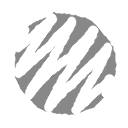
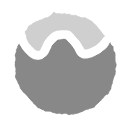
small refactor

diff --git a/Roguecraft.Engine/Core/Level.cs b/Roguecraft.Engine/Core/Level.cs
@@ -1,7 +1,6 @@
 using Microsoft.Xna.Framework;
 using Microsoft.Xna.Framework.Content;
 using Microsoft.Xna.Framework.Graphics;
-using Roguecraft.Engine.Actors;
 using Roguecraft.Engine.Cameras;
 using Roguecraft.Engine.Content;
 using Roguecraft.Engine.Factories;
@@ -24,12 +23,12 @@ namespace Roguecraft.Engine.Core
         private readonly ContentRepository _contentRepository;
         private readonly DoorFactory _doorFactory;
         private readonly DungeonService _dungeonService;
-        private readonly CreatureFactory<Enemy> _enemyFactory;
+        private readonly EnemyFactory _enemyFactory;
         private readonly FrameCounter _frameCounter;
         private readonly GameLoop _gameLoop;
         private readonly GraphicsDeviceManager _graphics;
         private readonly GraphicsDevice _graphicsDevice;
-        private readonly CreatureFactory<Hero> _heroFactory;
+        private readonly HeroFactory _heroFactory;
         private readonly HudRenderer _hudRenderer;
         private readonly ParticleRenderer _particleRenderer;
         private readonly ShapeRenderer _shapeRenderer;
@@ -52,8 +51,8 @@ namespace Roguecraft.Engine.Core
 
             _collisionService = new CollisionService(_actorPool);
 
-            _heroFactory = new CreatureFactory<Hero>(_configuration, _actorPool, _collisionService, _contentRepository);
-            _enemyFactory = new CreatureFactory<Enemy>(_configuration, _actorPool, _collisionService, _contentRepository);
+            _heroFactory = new HeroFactory(_configuration, _actorPool, _collisionService, _contentRepository);
+            _enemyFactory = new EnemyFactory(_configuration, _actorPool, _collisionService, _contentRepository);
             _wallFactory = new WallFactory(_configuration, _actorPool, _collisionService, _contentRepository);
             _doorFactory = new DoorFactory(_configuration, _actorPool, _collisionService, _contentRepository);
 
@@ -104,9 +103,9 @@ namespace Roguecraft.Engine.Core
         public void Update(float deltaTime)
         {
             _gameLoop.Update(deltaTime);
-
-            _soundService.Update();
+            _soundService.Play();
             _particleRenderer.Update(deltaTime);
+            _gameLoop.UpdateTimers(deltaTime);
         }
     }
 }

diff --git a/Roguecraft.Engine/Factories/CreatureFactory.cs b/Roguecraft.Engine/Factories/CreatureFactory.cs
@@ -5,12 +5,11 @@ using Roguecraft.Engine.Actors;
 using Roguecraft.Engine.Components;
 using Roguecraft.Engine.Content;
 using Roguecraft.Engine.Core;
-using Roguecraft.Engine.Helpers;
 using Roguecraft.Engine.Simulation;
 
 namespace Roguecraft.Engine.Factories;
 
-public class CreatureFactory<TActor> : ActorFactoryBase<TActor> where TActor : Creature, new()
+public abstract class CreatureFactory<TActor> : ActorFactoryBase<TActor> where TActor : Creature, new()
 {
     public CreatureFactory(Configuration configuration, ActorPool actorPool, CollisionService collisionService, ContentRepository contentRepository) :
                       base(configuration, actorPool, collisionService, contentRepository)
@@ -21,18 +20,10 @@ public class CreatureFactory<TActor> : ActorFactoryBase<TActor> where TActor : C
     {
         var creature = new TActor
         {
-            Texture = ContentRepository.Creature,
-            Name = name ?? "Creature",
             Position = position,
         };
-        creature.Color = Configuration.GetCreatureColor(creature);
-        var stats = new Stats
-        {
-            MaxHealth = 2,
-            Speed = Configuration.BaseCreatureSpeed,
-            DefaultAttack = new BasicAttackAction(creature)
-        };
-        creature.Stats = stats;
+
+        OnCreate(creature);
         creature.Health = creature.Stats.MaxHealth;
 
         creature.Collision = new Collision
@@ -59,4 +50,6 @@ public class CreatureFactory<TActor> : ActorFactoryBase<TActor> where TActor : C
         creature.ToggleDoorAction = new ToggleDoorAction(creature);
         return creature;
     }
+
+    protected abstract void OnCreate(TActor creature);
 }

diff --git a/Roguecraft.Engine/Sound/SoundService.cs b/Roguecraft.Engine/Sound/SoundService.cs
@@ -29,29 +29,42 @@ public class SoundService
         sound.PlayRandom(volume, pan);
     }
 
-    public void Update()
+    public void Play()
     {
         foreach (var actor in _actorPool.Actors)
         {
-            if (actor is Creature creature)
-            {
-                if (creature.HurtTimer.JustTriggered)
-                {
-                    Play(_contentRepository.HitSound, actor.Position);
-                }
-            }
+            PlayCreature(actor);
+            PlayDoor(actor);
+        }
+    }
 
-            if (actor is Door door)
-            {
-                if (door.JustOpened)
-                {
-                    Play(_contentRepository.DoorOpenSound, actor.Position);
-                }
-                if (door.JustClosed)
-                {
-                    Play(_contentRepository.DoorCloseSound, actor.Position);
-                }
-            }
+    private void PlayCreature(Actor actor)
+    {
+        if (actor is not Creature creature)
+        {
+            return;
+        }
+
+        if (!creature.HurtTimer.JustTriggered)
+        {
+            return;
+        }
+        Play(_contentRepository.HitSound, actor.Position);
+    }
+
+    private void PlayDoor(Actor actor)
+    {
+        if (actor is not Door door)
+        {
+            return;
+        }
+        if (door.JustOpened)
+        {
+            Play(_contentRepository.DoorOpenSound, actor.Position);
+        }
+        if (door.JustClosed)
+        {
+            Play(_contentRepository.DoorCloseSound, actor.Position);
         }
     }
 }

diff --git a/Roguecraft.Engine/Factories/ActorFactoryBase.cs b/Roguecraft.Engine/Factories/ActorFactoryBase.cs
@@ -8,16 +8,15 @@ namespace Roguecraft.Engine.Factories;
 
 public abstract class ActorFactoryBase<TActor> : IActorFactory where TActor : Actor
 {
-    private readonly ActorPool _actorPool;
-
     public ActorFactoryBase(Configuration configuration, ActorPool actorPool, CollisionService collisionService, ContentRepository contentRepository)
     {
-        _actorPool = actorPool;
+        ActorPool = actorPool;
         CollisionService = collisionService;
         ContentRepository = contentRepository;
         Configuration = configuration;
     }
 
+    protected ActorPool ActorPool { get; }
     protected CollisionService CollisionService { get; }
     protected Configuration Configuration { get; }
     protected ContentRepository ContentRepository { get; }
@@ -30,10 +29,10 @@ public abstract class ActorFactoryBase<TActor> : IActorFactory where TActor : Ac
     public void Add(Vector2 position, string? name = null)
     {
         var actor = Create(position, name);
-        _actorPool.Add(actor);
+        ActorPool.Add(actor);
         if (actor is Hero hero)
         {
-            _actorPool.Hero = hero;
+            ActorPool.Hero = hero;
         }
     }
 

diff --git a/Roguecraft.Engine/Actors/Enemy.cs b/Roguecraft.Engine/Actors/Enemy.cs
@@ -5,13 +5,17 @@ namespace Roguecraft.Engine.Actors;
 
 public class Enemy : Creature
 {
+    public Hero Hero { get; set; }
+
     public override GameAction? OnTakeTurn(float deltaTime)
     {
-        Energy += Stats.Speed * deltaTime;
-        Energy = Math.Min(0, Energy);
         if (TryAttack(out var attack))
         {
             return attack;
+        }
+        if (TryFollowHero())
+        {
+            return OnFollowHero();
         }
         if (TryOpenDoor())
         {
@@ -27,7 +31,7 @@ public class Enemy : Creature
 
     protected override bool CanAttack()
     {
-        return true;
+        return AreaOfInfluence.InternalEvents.Any(x => x.Other.Actor == Hero);
     }
 
     protected override bool CanOpenDoor()
@@ -39,5 +43,16 @@ public class Enemy : Creature
     {
         direction = Vector2.Zero;
         return true;
+    }
+
+    private GameAction OnFollowHero()
+    {
+        WalkAction.Set(Hero.Position - Position);
+        return WalkAction;
+    }
+
+    private bool TryFollowHero()
+    {
+        return Visibility.IsVisibleByPlayer;
     }
 }

diff --git a/Roguecraft.Engine/Factories/EnemyFactory.cs b/Roguecraft.Engine/Factories/EnemyFactory.cs
@@ -1,0 +1,32 @@
+using Roguecraft.Engine.Actions;
+using Roguecraft.Engine.Actors;
+using Roguecraft.Engine.Components;
+using Roguecraft.Engine.Content;
+using Roguecraft.Engine.Core;
+using Roguecraft.Engine.Helpers;
+using Roguecraft.Engine.Simulation;
+
+namespace Roguecraft.Engine.Factories;
+
+public class EnemyFactory : CreatureFactory<Enemy>
+{
+    public EnemyFactory(Configuration configuration, ActorPool actorPool, CollisionService collisionService, ContentRepository contentRepository) :
+        base(configuration, actorPool, collisionService, contentRepository)
+    {
+    }
+
+    protected override void OnCreate(Enemy creature)
+    {
+        var stats = new Stats
+        {
+            MaxHealth = 2,
+            Speed = Configuration.BaseCreatureSpeed * 0.75f,
+            DefaultAttack = new BasicAttackAction(creature)
+        };
+        creature.Name = "Enemy";
+        creature.Texture = ContentRepository.Enemy;
+        creature.Stats = stats;
+        creature.Color = Configuration.EnemyColor.ToColor();
+        creature.Hero = ActorPool.Hero;
+    }
+}

diff --git a/Roguecraft.Engine/Factories/HeroFactory.cs b/Roguecraft.Engine/Factories/HeroFactory.cs
@@ -1,0 +1,31 @@
+using Roguecraft.Engine.Actions;
+using Roguecraft.Engine.Actors;
+using Roguecraft.Engine.Components;
+using Roguecraft.Engine.Content;
+using Roguecraft.Engine.Core;
+using Roguecraft.Engine.Helpers;
+using Roguecraft.Engine.Simulation;
+
+namespace Roguecraft.Engine.Factories;
+
+public class HeroFactory : CreatureFactory<Hero>
+{
+    public HeroFactory(Configuration configuration, ActorPool actorPool, CollisionService collisionService, ContentRepository contentRepository) :
+        base(configuration, actorPool, collisionService, contentRepository)
+    {
+    }
+
+    protected override void OnCreate(Hero creature)
+    {
+        var stats = new Stats
+        {
+            MaxHealth = 2,
+            Speed = Configuration.BaseCreatureSpeed,
+            DefaultAttack = new BasicAttackAction(creature)
+        };
+        creature.Name = "Hero";
+        creature.Texture = ContentRepository.Creature;
+        creature.Stats = stats;
+        creature.Color = Configuration.PlayerColor.ToColor();
+    }
+}

diff --git a/Roguecraft.Engine/Content/ContentRepository.cs b/Roguecraft.Engine/Content/ContentRepository.cs
@@ -21,6 +21,7 @@ namespace Roguecraft.Engine.Content
         public TextureRegion2D Door { get; private set; }
         public GameSound DoorCloseSound { get; private set; }
         public GameSound DoorOpenSound { get; private set; }
+        public TextureRegion2D Enemy { get; private set; }
         public SpriteFont Font { get; private set; }
         public TextureRegion2D Footstep { get; private set; }
         public GameSound HitSound { get; private set; }
@@ -31,6 +32,7 @@ namespace Roguecraft.Engine.Content
         private void Load()
         {
             Creature = LoadTextureRegion("person");
+            Enemy = LoadTextureRegion("enemy");
             Wall = LoadTextureRegion("wall");
             Door = LoadTextureRegion("door");
             Line = LoadTextureRegion("line");

diff --git a/Roguecraft.Engine/Render/ParticleRenderer.cs b/Roguecraft.Engine/Render/ParticleRenderer.cs
@@ -42,7 +42,7 @@ public class ParticleRenderer
     {
         foreach (var creature in _actorPool.Actors.Where(a => a is Creature).Cast<Creature>())
         {
-            if (!creature.Visibility.IsVisible && !creature.Visibility.CanBeDrawn)
+            if (!creature.Visibility.IsVisibleByPlayer && !creature.Visibility.CanBeDrawn)
             {
                 continue;
             }
@@ -66,7 +66,7 @@ public class ParticleRenderer
     {
         var direction = creature.WalkAction.CurrentPosition - creature.WalkAction.LastPosition;
         var lengthSquared = direction.LengthSquared();
-        if (lengthSquared <= _stepFrequencyBaseSquared - (creature.Stats.Speed * creature.Stats.Speed))
+        if (lengthSquared <= _stepFrequencyBaseSquared)
         {
             return;
         }

diff --git a/Roguecraft.Engine/Actors/Actor.cs b/Roguecraft.Engine/Actors/Actor.cs
@@ -41,6 +41,10 @@ public abstract class Actor
     public TextureRegion2D Texture { get; set; }
     public VisibilityProperties Visibility { get; set; } = new();
 
+    public virtual void AfterUpdate(float deltaTime)
+    {
+    }
+
     public virtual void ClearSimulationData()
     {
         Collision.Clear();
@@ -60,8 +64,8 @@ public abstract class Actor
     {
         var isVisible = visibilityService.IsVisible(Position, Collision.Bounds);
 
-        Visibility.IsVisible = isVisible;
-        if (Collision.IsFixed && Visibility.IsVisible)
+        Visibility.IsVisibleByPlayer = isVisible;
+        if (Collision.IsFixed && Visibility.IsVisibleByPlayer)
         {
             Visibility.TimesSeen++;
         }

diff --git a/Roguecraft.Engine/Actors/Creature.cs b/Roguecraft.Engine/Actors/Creature.cs
@@ -16,6 +16,11 @@ public abstract class Creature : Actor
     public ToggleDoorAction ToggleDoorAction { get; set; }
     public WalkAction WalkAction { get; set; }
 
+    public override void AfterUpdate(float deltaTime)
+    {
+        UpdateTimers(deltaTime);
+    }
+
     public override void ClearSimulationData()
     {
         base.ClearSimulationData();
@@ -26,7 +31,6 @@ public abstract class Creature : Actor
 
     public override GameAction? TakeTurn(float deltaTime)
     {
-        UpdateTimers(deltaTime);
         Energy += Stats.Speed * deltaTime;
         Energy = Math.Min(0, Energy);
         return OnTakeTurn(deltaTime);

diff --git a/Roguecraft.Engine/Render/VisibilityRenderer.cs b/Roguecraft.Engine/Render/VisibilityRenderer.cs
@@ -111,7 +111,7 @@ public class VisibilityRenderer
             _primitiveDrawing.DrawSolidPolygon(Vector2.Zero, new[] { triangle.VertexA, triangle.VertexB, triangle.VertexC }, Color.White, false);
             current++;
         }
-        foreach (var entity in _actorPool.Actors.Where(a => a.Visibility.IsVisible))
+        foreach (var entity in _actorPool.Actors.Where(a => a.Visibility.IsVisibleByPlayer))
         {
             var collidableComponent = entity.Collision;
             if (collidableComponent is null)
